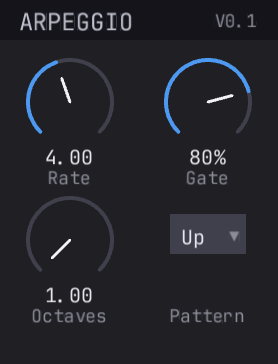
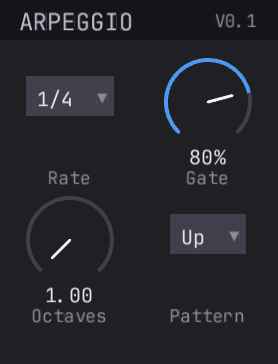
Show note values on arpeggio

Changed region(s): [[0.0863, 0.1511, 0.4317, 0.3626], [0.1439, 0.3929, 0.3453, 0.4533]]

diff --git a/examples/arpeggio/src/lib.rs b/examples/arpeggio/src/lib.rs
@@ -12,14 +12,49 @@ pub enum ArpPattern {
     Random,
 }
 
+/// Step length as a note value. Maps directly to beats per step.
+/// `Quarter` is one beat at 4/4; everything else is a power-of-two
+/// subdivision, down to 1/64 for fast arps.
+#[derive(ParamEnum)]
+pub enum ArpRate {
+    #[name = "1/1"]
+    Whole,
+    #[name = "1/2"]
+    Half,
+    #[name = "1/4"]
+    Quarter,
+    #[name = "1/8"]
+    Eighth,
+    #[name = "1/16"]
+    Sixteenth,
+    #[name = "1/32"]
+    ThirtySecond,
+    #[name = "1/64"]
+    SixtyFourth,
+}
+
+impl ArpRate {
+    fn beats_per_step(self) -> f64 {
+        match self {
+            ArpRate::Whole => 4.0,
+            ArpRate::Half => 2.0,
+            ArpRate::Quarter => 1.0,
+            ArpRate::Eighth => 0.5,
+            ArpRate::Sixteenth => 0.25,
+            ArpRate::ThirtySecond => 0.125,
+            ArpRate::SixtyFourth => 0.0625,
+        }
+    }
+}
+
 // --- Parameters ---
 
 use ArpParamsParamId as P;
 
 #[derive(Params)]
 pub struct ArpParams {
-    #[param(name = "Rate", range = "discrete(1, 8)", default = 4)]
-    pub rate: FloatParam,
+    #[param(name = "Rate", default = 2)]
+    pub rate: EnumParam<ArpRate>,
 
     #[param(name = "Octaves", short_name = "Oct",
             range = "discrete(1, 4)", default = 1)]
@@ -159,8 +194,7 @@ impl PluginLogic for Arpeggio {
             return ProcessStatus::Normal;
         }
 
-        let rate_div = self.params.rate.value() as f64; // 1=whole, 2=half, 4=quarter, 8=eighth
-        let beats_per_step = 4.0 / rate_div; // e.g., rate=4 → 1 beat per step
+        let beats_per_step = self.params.rate.value().beats_per_step();
         let gate_frac = self.params.gate.value() as f64;
 
         // Phase-lock to the host beat grid whenever the host reports
@@ -234,7 +268,7 @@ impl PluginLogic for Arpeggio {
 
     fn layout(&self) -> truce_gui::layout::GridLayout {
         GridLayout::build("ARPEGGIO", "V0.1", 2, 50.0, vec![widgets(vec![
-            knob(P::Rate, "Rate"),
+            dropdown(P::Rate, "Rate"),
             knob(P::Gate, "Gate"),
             knob(P::Octaves, "Octaves"),
             dropdown(P::Pattern, "Pattern"),
